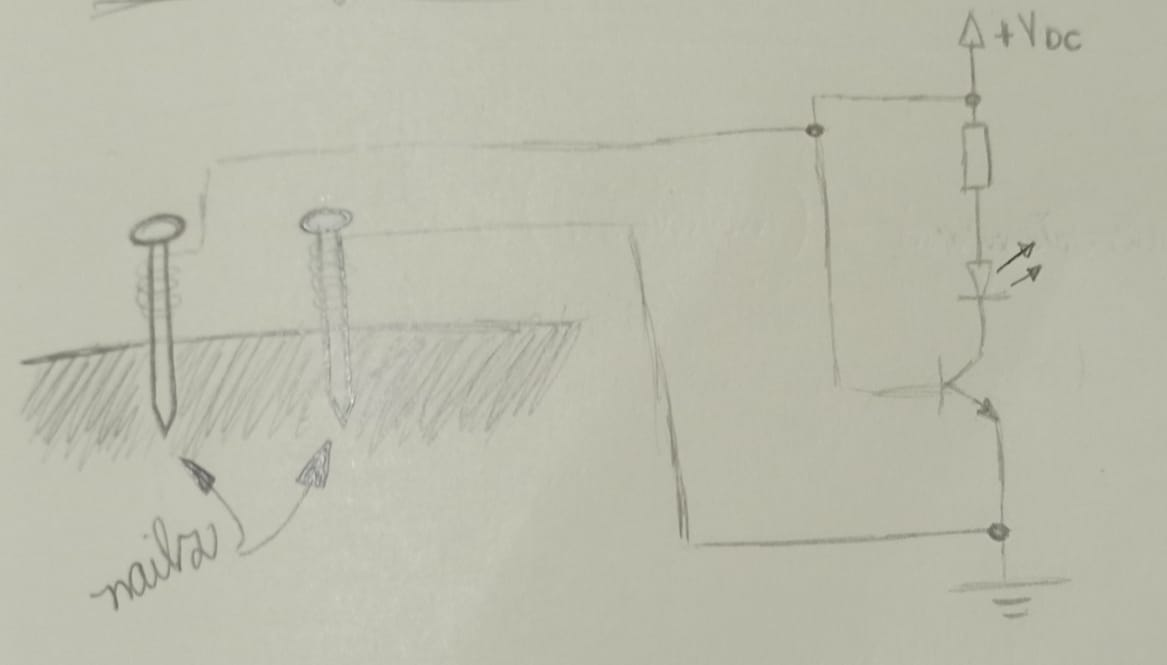
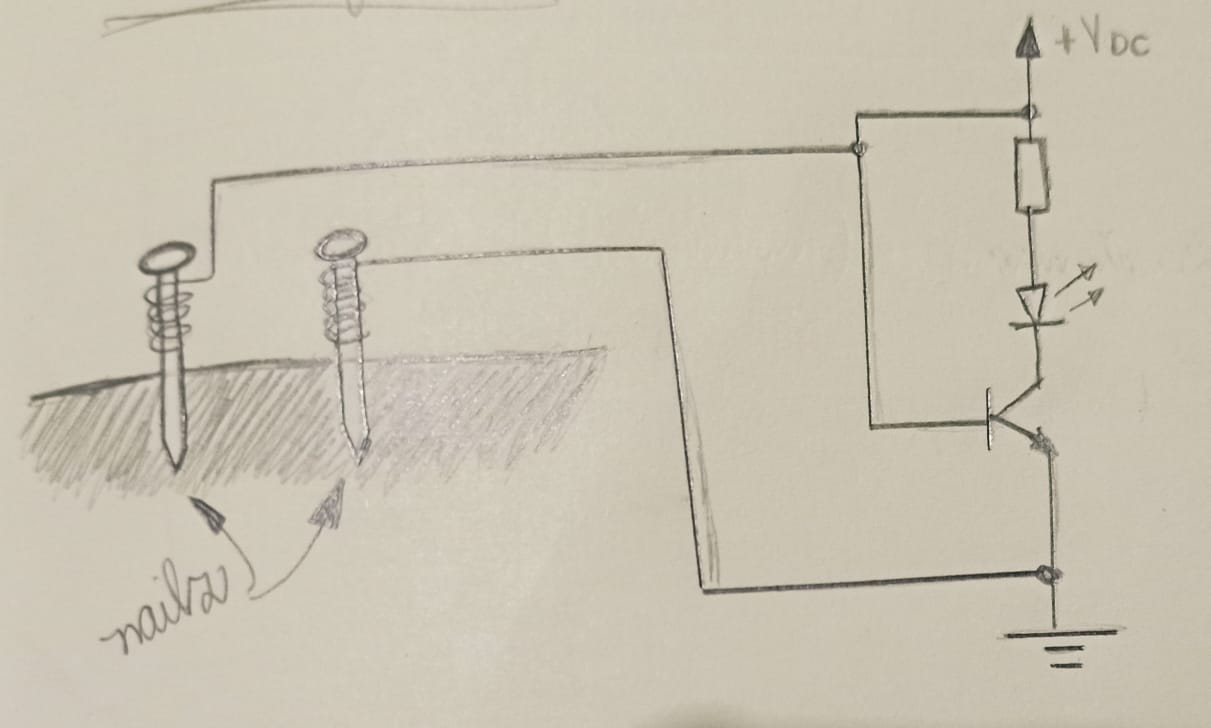
Correcting photos and text page

diff --git a/docs/Principles and Practices/1Principles and Practices.md b/docs/Principles and Practices/1Principles and Practices.md
@@ -5,8 +5,7 @@
 * Plan and sketch a potential final project
 
 During this week I worked on defining my final project and started to create the documentation.
-The project idea came from the task of water and put my plants under sunlight. I love to take care
-of them, but sometimes I don't have enough time, specially when I'm traveling or so busy with work.
+The project idea came from the task of watering and putting my plants under sunlight. I love to take care of them, but sometimes I don't have enough time, specially when I'm traveling or so busy with work.
 Majority of my plants is rose bushes which need many hours of daylight according to this [article](https://homeguides.sfgate.com/roses-need-full-sun-71200.html).
 Therefore, I pass my days moving them to sunny places in my yard. So, why not to build a robot to do it for me? :smirk:
 
@@ -15,8 +14,7 @@ Therefore, I pass my days moving them to sunny places in my yard. So, why not to
 ##References
 
 In my research, I discovered some references to embase my project.
-The first one is called [Hexa](https://www.businessinsider.com/the-hexa-robot-can-take-care-of-your-plants-2018-7), a walking succulent plant robot. It can move the plant in and out of shade and stomps when it needs watering. However, its design is very
-sophisticated.
+The first one is called [Hexa](https://www.businessinsider.com/the-hexa-robot-can-take-care-of-your-plants-2018-7), a walking succulent plant robot. It can move the plant in and out of shade and stomps when it needs watering. However, its design is very sophisticated.
 
 ![Hexa](imgs/Hexa.jpg){: align=left style="height:215px"}
 <video controls width="400" align="center">
@@ -27,16 +25,14 @@ sophisticated.
     Sorry, your browser doesn't support embedded videos.
 </video>
 
-
-The second is [Elowan](https://www.media.mit.edu/projects/elowan-a-plant-robot-hybrid/overview/), a cybernetic lifeform.
-The project uses the plant signals to guide it toward light.
+The second is [Elowan](https://www.media.mit.edu/projects/elowan-a-plant-robot-hybrid/overview/), a cybernetic lifeform. The project uses the plant signals to guide it toward light.
 
 ![Elowan](imgs/Elowan.jpg){: align=left style="height:300px"}
 <iframe width="534" height="300" src="https://www.youtube.com/embed/rptKlKZc7cs" title="YouTube video player" frameborder="0" allow="accelerometer; autoplay; clipboard-write; encrypted-media; gyroscope; picture-in-picture" allowfullscreen></iframe>
 
 ##PNR - Plant Nanny Robot
 
-I'm not an expert in drawing, but here's my sketch:
+I'm not an expert in drawing, but here's my project sketch:
 
 ![PNR](imgs/PNR_sketch.jpeg){: align=center style="height:500px"}
 
@@ -45,27 +41,31 @@ I'm not an expert in drawing, but here's my sketch:
 The **Plant Nanny Robot (PNR)** is a robotic mobile platform that takes care of a plant.
 People who need traveling for a short period (two weeks) or that don't have enough time to basic care of their plant, can use the PNR, ensuring the survival of their green loves.
 
-It moves itself forward or back toward natural light incidence, to keep the rose bush for longer under sunshine.
-It uses metal electrodes connected to the ground and plant stem for reading its signals. According to [TED of Greg Gage in 2017](https://www.ted.com/talks/greg_gage_electrical_experiments_with_plants_that_count_and_communicate#t-120040),
-plants can communicate through electrical signals that change with an external touch/motion, or also because of
-light as [Elowan project]( https://www.media.mit.edu/projects/elowan-a-plant-robot-hybrid/overview/).
+It moves itself forward or back toward light incidence, to keep the plant for longer under sunshine.
+It uses silver electrodes connected to the ground and plant stem for reading its signals. According to [TED of Greg Gage in 2017](https://www.ted.com/talks/greg_gage_electrical_experiments_with_plants_that_count_and_communicate#t-120040), plants can communicate through electrical signals that change with an external touch/motion, or also because of light as [Elowan project]( https://www.media.mit.edu/projects/elowan-a-plant-robot-hybrid/overview/).
+
+I took a look on the internet to find some silver electrodes, but apparently, we don't have them in Brazil. So, an option is to test the plant signals with a thin copper wire and Aloe Vera gel to ensure electrical conduction.
 
 !!! sketch "Sunlight Sensor"
-    I took a look on the internet to find some silver electrodes, but apparently, we don't have them in Brazil. So, an option is to test the plant signals with a thin copper wire and Aloe Vera gel to ensure electrical conduction.
     ![sun light sensor](imgs/sun light sensor.jpeg){: align=center style="height:450px"}
 
 To avoid bumping into obstacles, and even into people or pets, there is an ultrasonic sensor that stops the robot's motions if necessary.
 
-Beyond sunbath, the PNR takes care of soil moisture. Through the handmade sensor that warns when watering is needed
-(turning on the water pump). Its mini reservoir has a level sensor of reed switch type that notifies the owner about
-the low water level (through an LED) and also blocks the watering system until refueling.
+Beyond sunbath, the PNR takes care of soil moisture. Through the handmade sensor that warns when watering is needed (turning on the water pump). Its mini reservoir has a level sensor of reed switch type that notifies the owner about the low water level (through an LED) and also blocks the watering system until refueling.
+
+To make the soil moisture sensor, I'll use two nails connected with a NPN transistor and LED circuit, as on the sketch below. When the ground is dry, the LED turns on.
 
 !!! exemple ""
-    To make the soil moisture sensor, I'll use two nails connected with a NPN transistor and LED circuit, as on the sketch below. When the ground is dry, the LED turns on.
+    **Soil Moisture Sensor**
     ![soil moisture sensor](imgs/soil moisture sensor.jpeg){: align=center style="height:250px"}
 
-    I'll try to reproduce a reed switch sensor, and put it in a 3D printing or molded part with a magnet.
+I'll try to reproduce a reed switch sensor, and put it in a 3D printing or molded part with a magnet.
+
+!!! exemple ""
+    **Level Sensor**
     ![level sensor](imgs/level sensor.jpeg){: align=center style="height:250px"}
+
+In a little search on [Thinginverse site]([https://www.thingiverse.com/) I realize that is possible to built a water pump with a few parts.
 
 !!! exemple "Water Pump"
     ![water pump](imgs/water pump.jpeg){: align=center style="height:250px"}
